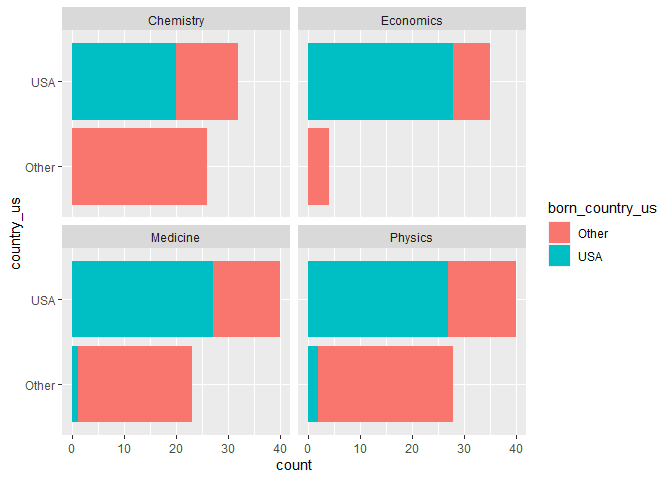
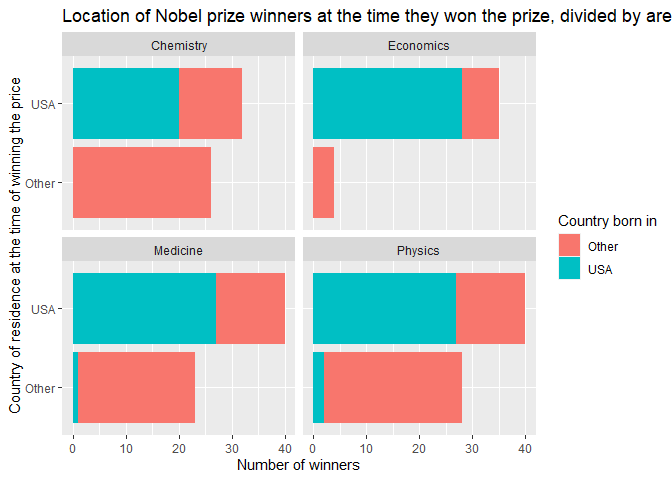
Make final touches on lab 3 + start lab 6

diff --git a/lab-03.md b/lab-03.md
@@ -88,18 +88,30 @@ nobel_living_science <- nobel_living %>%
 ```
 
 ``` r
-ggplot(nobel_living_science, mapping = aes(x = country_us)) +
+ggplot(nobel_living_science, mapping = aes(x = country_us, fill = country_us)) +
   geom_bar() +
   facet_wrap(~category) +
-  coord_flip()
+  coord_flip() +
+  guides(fill = FALSE) +
+  labs(
+    title = "Location of Nobel prize winners at the time they won the prize, divided by area",
+    x = "Country of residence at the time of winning the price",
+    y = "Number of winners"
+  )
 ```
+
+    ## Warning: The `<scale>` argument of `guides()` cannot be `FALSE`. Use "none" instead as
+    ## of ggplot2 3.3.4.
+    ## This warning is displayed once every 8 hours.
+    ## Call `lifecycle::last_lifecycle_warnings()` to see where this warning was
+    ## generated.
 
 ![](lab-03_files/figure-gfm/plot_box_area-1.png)<!-- -->
 
 Most of the winners were in the US when they won, but many of them were
-also outside of the US. I don’t know whether looking at only category of
-price and where they won the price has anything to say about
-immigration. Need more information.
+also outside of the US. The graph doesn’t technically say that much
+about immigration, because we don’t know how many of these winners were
+born in a different country.
 
 ### Exercise 4
 
@@ -119,38 +131,44 @@ countries.
 ggplot(nobel_living_science, mapping = aes(x = country_us, fill = born_country_us)) +
   geom_bar() +
   facet_wrap(~category) +
-  coord_flip()
+  coord_flip() +
+  labs(
+    title = "Location of Nobel prize winners at the time they won the prize, divided by area and the country they were born in",
+    x = "Country of residence at the time of winning the price",
+    y = "Number of winners",
+    fill = "Country born in"
+  )
 ```
 
 ![](lab-03_files/figure-gfm/plot_area_and_born-1.png)<!-- -->
 
 Most of the winners in the US were born in the US, but there is a pretty
-significant portion of winners that were born other places. I would say
-that Buzzfeed has a point about immigrants being good for the research
-environment in the US.
+significant portion of winners that were born in other countries too. I
+would say that Buzzfeed has a point about immigrants being good for the
+research environment in the US.
 
 ### Exercise 6
 
 ``` r
 nobel_living_science %>% 
-  filter(country != "USA" & born_country_us == "Other") %>%
+  filter(country == "USA" & born_country_us == "Other") %>%
   count(born_country) %>%
   arrange(desc(n))
 ```
 
-    ## # A tibble: 25 × 2
+    ## # A tibble: 21 × 2
     ##    born_country       n
     ##    <chr>          <int>
-    ##  1 Japan             14
-    ##  2 Germany           13
-    ##  3 United Kingdom     9
-    ##  4 France             7
-    ##  5 Switzerland        6
-    ##  6 Israel             3
-    ##  7 Netherlands        3
-    ##  8 Canada             2
-    ##  9 India              2
-    ## 10 Norway             2
-    ## # ℹ 15 more rows
+    ##  1 Germany            7
+    ##  2 United Kingdom     7
+    ##  3 China              5
+    ##  4 Canada             4
+    ##  5 Japan              3
+    ##  6 Australia          2
+    ##  7 Israel             2
+    ##  8 Norway             2
+    ##  9 Austria            1
+    ## 10 Finland            1
+    ## # ℹ 11 more rows
 
-The most common country for immigrants was Japan, with 14 winners.
+The most common country for immigrants was Germany, with 7 winners.

diff --git a/lab-06.md b/lab-06.md
@@ -1,0 +1,79 @@
+Lab 06 - Ugly charts and Simpson’s paradox
+================
+Linn Zapffe
+5/2/2025
+
+### Load packages and data
+
+``` r
+library(tidyverse) 
+library(dsbox)
+library(mosaicData) 
+```
+
+    ## Warning: package 'mosaicData' was built under R version 4.3.3
+
+## Instructional staff employment trends
+
+### Exercise 1
+
+``` r
+staff <- read_csv("data/instructional-staff.csv")
+```
+
+    ## Rows: 5 Columns: 12
+    ## ── Column specification ────────────────────────────────────────────────────────
+    ## Delimiter: ","
+    ## chr  (1): faculty_type
+    ## dbl (11): 1975, 1989, 1993, 1995, 1999, 2001, 2003, 2005, 2007, 2009, 2011
+    ## 
+    ## ℹ Use `spec()` to retrieve the full column specification for this data.
+    ## ℹ Specify the column types or set `show_col_types = FALSE` to quiet this message.
+
+``` r
+staff_long <- staff %>%
+  pivot_longer(cols = -faculty_type, names_to = "year") %>%
+  mutate(value = as.numeric(value))
+
+staff_long
+```
+
+    ## # A tibble: 55 × 3
+    ##    faculty_type              year  value
+    ##    <chr>                     <chr> <dbl>
+    ##  1 Full-Time Tenured Faculty 1975   29  
+    ##  2 Full-Time Tenured Faculty 1989   27.6
+    ##  3 Full-Time Tenured Faculty 1993   25  
+    ##  4 Full-Time Tenured Faculty 1995   24.8
+    ##  5 Full-Time Tenured Faculty 1999   21.8
+    ##  6 Full-Time Tenured Faculty 2001   20.3
+    ##  7 Full-Time Tenured Faculty 2003   19.3
+    ##  8 Full-Time Tenured Faculty 2005   17.8
+    ##  9 Full-Time Tenured Faculty 2007   17.2
+    ## 10 Full-Time Tenured Faculty 2009   16.8
+    ## # ℹ 45 more rows
+
+Line graph of the data set:
+
+``` r
+staff_long %>%
+  ggplot(aes(x = year, y = value, color = faculty_type)) +
+  geom_line()
+```
+
+    ## `geom_line()`: Each group consists of only one observation.
+    ## ℹ Do you need to adjust the group aesthetic?
+
+![](lab-06_files/figure-gfm/staff_line_graph-1.png)<!-- -->
+
+### Exercise 2
+
+Remove this text, and add your answer for Exercise 1 here. Add code
+chunks as needed. Don’t forget to label your code chunk. Do not use
+spaces in code chunk labels.
+
+### Exercise 3
+
+…
+
+Add exercise headings as needed.
